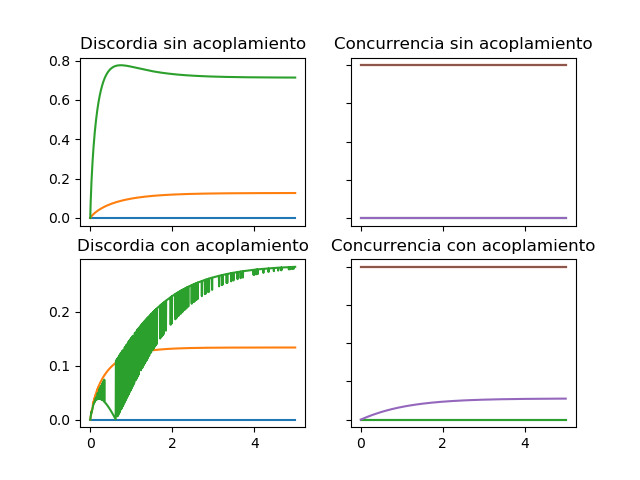
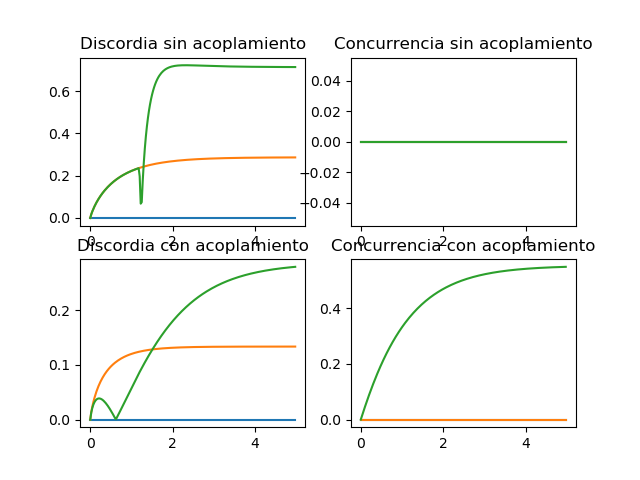
Cambio generado con script

diff --git a/master.py b/master.py
@@ -1,7 +1,7 @@
 from qutip import * #Liberia qutip
 from matplotlib.pyplot import * #Libreria matplotlib
 import numpy as np #Liberia numpy
-times = np.linspace(0,5,1000) #definir intervalo temporal 
+times = np.linspace(0,5, 200) #definir intervalo temporal 
 I1 =  (1/(np.sqrt(2)))*(tensor(basis(2,0),basis(2,0))+tensor(basis(2,1),basis(2,1)))#Definir estado inicial Bell 1
 I2 =  (1/(np.sqrt(2)))*(tensor(basis(2,0),basis(2,1))+tensor(basis(2,1),basis(2,0)))#Definir estado inicial Bell 3
 I3 =  tensor(basis(2,0),basis(2,1))#Definir estado inicial logico 01
@@ -28,44 +28,63 @@ def log_2(x):
 def entropy_cond(a,b,t1,t2):
     e = a*(-((1-t1)/2)*log_2((1-t1)/2)-((1+t1)/2)*log_2((1+t1)/2))+b*(-((1-t2)/2)*log_2((1-t2)/2)-((1+t2)/2)*log_2((1+t2)/2))
     return e
+
+#Definir función entropía binaria con logaritmo seguro
+def h_bin(x):
+    h=-x*log_2(x)-(1-x)*log_2(1-x)
+    return h
    
 #Definir funcion que calcula ecuaciones maestras y evaluar si funciona fuera
 def me3(IN,RES):
     sol=mesolve(tensor(identity(2),identity(2)), IN, times, RES)
-    out=[[0 for i in range(1000)],[0 for i in range(1000)]]
-    conc=[0 for i in range(1000)]
-    disc=[0 for i in range(1000)]    
+    out=[[0 for i in range(200)],[0 for i in range(200)],[0 for i in range(200)], [0 for i in range(200)]]
+    conc=[0 for i in range(200)]
+    disc=[0 for i in range(200)]
+    clas=[0 for i in range(200)]
+    entf=[0 for i in range(200)]    
     def entropy_opt(a):
         ent_comp=[0 for i in range(4)]
-        if a.matrix_element(tensor(basis(2,0)),tensor(basis(2,0)))+a.matrix_element(tensor(basis(2,1)),tensor(basis(2,1)))==0:
+        r00= a.matrix_element(tensor(basis(2,0),basis(2,0)).dag(),tensor(basis(2,0),basis(2,0)))
+        r11= a.matrix_element(tensor(basis(2,0),basis(2,1)).dag(),tensor(basis(2,0),basis(2,1)))
+        r22= a.matrix_element(tensor(basis(2,1),basis(2,0)).dag(),tensor(basis(2,1),basis(2,0)))
+        r33= a.matrix_element(tensor(basis(2,1),basis(2,1)).dag(),tensor(basis(2,1),basis(2,1)))
+        r03r= np.real(a.matrix_element(tensor(basis(2,0),basis(2,0)).dag(),tensor(basis(2,1),basis(2,1))))
+        r12r= np.real(a.matrix_element(tensor(basis(2,0),basis(2,1)).dag(),tensor(basis(2,1),basis(2,0))))
+        r03i= np.imag(a.matrix_element(tensor(basis(2,0),basis(2,0)).dag(),tensor(basis(2,1),basis(2,1))))
+        r12i= np.imag(a.matrix_element(tensor(basis(2,0),basis(2,1)).dag(),tensor(basis(2,1),basis(2,0))))
+        if r11+r33 ==0:
            ent_comp[0]=1
            ent_comp[1]=1
-        elif a.matrix_element(tensor(basis(2,0)),tensor(basis(2,1)))+a.matrix_element(tensor(basis(2,1)),tensor(basis(2,0)))==0:
+        elif r00+r22 ==0:
            ent_comp[0]=1
            ent_comp[1]=1
         else:
-           ent_comp[0]=entropy_cond(a.matrix_element(tensor(basis(2,0),basis(2,1)).dag(),tensor(basis(2,0),basis(2,1)))+a.matrix_element(tensor(basis(2,1),basis(2,1)).dag(),tensor(basis(2,1),basis(2,1))),a.matrix_element(tensor(basis(2,0),basis(2,0)).dag(),tensor(basis(2,0),basis(2,0)))+a.matrix_element(tensor(basis(2,1),basis(2,0)).dag(),tensor(basis(2,1),basis(2,0))),(a.matrix_element(tensor(basis(2,0),basis(2,1)).dag(),tensor(basis(2,0),basis(2,1)))-a.matrix_element(tensor(basis(2,1),basis(2,1)).dag(),tensor(basis(2,1),basis(2,1))))/(a.matrix_element(tensor(basis(2,0),basis(2,0)).dag(),tensor(basis(2,0),basis(2,0)))+a.matrix_element(tensor(basis(2,1),basis(2,0)).dag(),tensor(basis(2,1),basis(2,0)))),(a.matrix_element(tensor(basis(2,0),basis(2,0)).dag(),tensor(basis(2,0),basis(2,0)))-a.matrix_element(tensor(basis(2,1),basis(2,0)).dag(),tensor(basis(2,1),basis(2,0))))/(a.matrix_element(tensor(basis(2,0),basis(2,1)).dag(),tensor(basis(2,0),basis(2,1)))+a.matrix_element(tensor(basis(2,1),basis(2,1)).dag(),tensor(basis(2,1),basis(2,1)))))
-           ent_comp[1]=entropy_cond(a.matrix_element(tensor(basis(2,0),basis(2,0)).dag(),tensor(basis(2,0),basis(2,0)))+a.matrix_element(tensor(basis(2,1),basis(2,0)).dag(),tensor(basis(2,1),basis(2,0))),a.matrix_element(tensor(basis(2,0),basis(2,1)).dag(),tensor(basis(2,0),basis(2,1)))+a.matrix_element(tensor(basis(2,1),basis(2,1)).dag(),tensor(basis(2,1),basis(2,1))),(a.matrix_element(tensor(basis(2,0),basis(2,0)).dag(),tensor(basis(2,0),basis(2,0)))-a.matrix_element(tensor(basis(2,1),basis(2,0)).dag(),tensor(basis(2,1),basis(2,0))))/(a.matrix_element(tensor(basis(2,0),basis(2,1)).dag(),tensor(basis(2,0),basis(2,1)))+a.matrix_element(tensor(basis(2,1),basis(2,1)).dag(),tensor(basis(2,1),basis(2,1)))),(a.matrix_element(tensor(basis(2,0),basis(2,1)).dag(),tensor(basis(2,0),basis(2,1)))-a.matrix_element(tensor(basis(2,1),basis(2,1)).dag(),tensor(basis(2,1),basis(2,1))))/(a.matrix_element(tensor(basis(2,0),basis(2,0)).dag(),tensor(basis(2,0),basis(2,0)))+a.matrix_element(tensor(basis(2,1),basis(2,0)).dag(),tensor(basis(2,1),basis(2,0)))))
-        ent_comp[2]=entropy_cond(0.5,0.5,np.sqrt(((a.matrix_element(tensor(basis(2,0),basis(2,0)).dag(),tensor(basis(2,0),basis(2,0)))-a.matrix_element(tensor(basis(2,1),basis(2,0)).dag(),tensor(basis(2,1),basis(2,0))))+(a.matrix_element(tensor(basis(2,0),basis(2,1)).dag(),tensor(basis(2,0),basis(2,1)))-a.matrix_element(tensor(basis(2,1),basis(2,1)).dag(),tensor(basis(2,1),basis(2,1)))))**2+4*(a.matrix_element(tensor(basis(2,0),basis(2,0)).dag(),tensor(basis(2,1),basis(2,1)))+a.matrix_element(tensor(basis(2,0),basis(2,1)).dag(),tensor(basis(2,1),basis(2,0))))**2),np.sqrt(((a.matrix_element(tensor(basis(2,0),basis(2,0)).dag(),tensor(basis(2,0),basis(2,0)))-a.matrix_element(tensor(basis(2,1),basis(2,0)).dag(),tensor(basis(2,1),basis(2,0))))+(a.matrix_element(tensor(basis(2,0),basis(2,1)).dag(),tensor(basis(2,0),basis(2,1)))-a.matrix_element(tensor(basis(2,1),basis(2,1)).dag(),tensor(basis(2,1),basis(2,1)))))**2+4*(a.matrix_element(tensor(basis(2,0),basis(2,0)).dag(),tensor(basis(2,1),basis(2,1)))-a.matrix_element(tensor(basis(2,0),basis(2,1)).dag(),tensor(basis(2,1),basis(2,0))))**2))
-        ent_comp[3]=entropy_cond(0.5,0.5,np.sqrt(((a.matrix_element(tensor(basis(2,0),basis(2,0)).dag(),tensor(basis(2,0),basis(2,0)))-a.matrix_element(tensor(basis(2,1),basis(2,0)).dag(),tensor(basis(2,1),basis(2,0))))+(a.matrix_element(tensor(basis(2,0),basis(2,1)).dag(),tensor(basis(2,0),basis(2,1)))-a.matrix_element(tensor(basis(2,1),basis(2,1)).dag(),tensor(basis(2,1),basis(2,1)))))**2+4*(a.matrix_element(tensor(basis(2,0),basis(2,0)).dag(),tensor(basis(2,1),basis(2,1)))-a.matrix_element(tensor(basis(2,0),basis(2,1)).dag(),tensor(basis(2,1),basis(2,0))))**2),np.sqrt(((a.matrix_element(tensor(basis(2,0),basis(2,0)).dag(),tensor(basis(2,0),basis(2,0)))-a.matrix_element(tensor(basis(2,1),basis(2,0)).dag(),tensor(basis(2,1),basis(2,0))))+(a.matrix_element(tensor(basis(2,0),basis(2,1)).dag(),tensor(basis(2,0),basis(2,1)))-a.matrix_element(tensor(basis(2,1),basis(2,1)).dag(),tensor(basis(2,1),basis(2,1)))))**2+4*(a.matrix_element(tensor(basis(2,0),basis(2,0)).dag(),tensor(basis(2,1),basis(2,1)))-a.matrix_element(tensor(basis(2,0),basis(2,1)).dag(),tensor(basis(2,1),basis(2,0))))**2))              
+           ent_comp[0]=entropy_cond( r11+r33, r00+r22, (r11-r33)/(r00+r22) ,(r00-r22)/(r11+r33) )
+           ent_comp[1]=entropy_cond( r00+r22, r11+r33, (r00-r22)/(r11+r33) ,(r11-r33)/(r00+r22) )
+        ent_comp[2]=entropy_cond( 0.5, 0.5,  np.sqrt(((r00-r22)+(r11-r33))**2+4*(r03r+r12r)**2), np.sqrt(((r00-r22)+(r11-r33))**2+4*(r03r+r12r)**2))
+        ent_comp[3]=entropy_cond( 0.5, 0.5,  np.sqrt(((r00-r22)+(r11-r33))**2+4*(r03r+r12r)**2), np.sqrt(((r00-r22)+(r11-r33))**2+4*(r03r+r12r)**2))              
         if min(ent_comp)<=0:
            e=0
         else:
             e= min(ent_comp)
         return e
-    for i in range (0,1000):
+    for i in range (0,200):
         mat=Qobj(sol.states[i])
-        conc[i]=concurrence(mat),4
+        conc[i]=concurrence(mat)
         disc[i]=np.abs(-entropy_vn(mat)+entropy_vn(mat.ptrace(0))+entropy_opt(mat))
-    out=[conc,disc]
+        clas[i]=entropy_mutual(mat,0,1)-disc[i]
+        entf[i]=h_bin((1+np.sqrt(1-(concurrence(mat))**2))/2)
+    out=[conc,disc,clas,entf]
     return out
 
 def me2(IN,RES):
     sol=mesolve(tensor(identity(2),identity(2)), IN, times, RES)
-    out=[[0 for i in range(1000)],[0 for i in range(1000)]]
-    conc=[0 for i in range(1000)]
-    disc=[0 for i in range(1000)]
-    for i in range (0,1000):
+    out=[[0 for i in range(200)],[0 for i in range(200)],[0 for i in range(200)],[0 for i in range(200)]]
+    conc=[0 for i in range(200)]
+    disc=[0 for i in range(200)]
+    clas=[0 for i in range(200)]
+    entf=[0 for i in range(200)]
+    for i in range (0,200):
         mat=Qobj(sol.states[i])
         c1=mat.eigenenergies()[2]+mat.eigenenergies()[3]-mat.eigenenergies()[0]-mat.eigenenergies()[1]
         c2=mat.eigenenergies()[1]+mat.eigenenergies()[3]-mat.eigenenergies()[0]-mat.eigenenergies()[2]
@@ -76,55 +95,57 @@ def me2(IN,RES):
         disc[i]=-0.5*((1+c)*log_2(1+c)+(1-c)*log_2(1-c))
         for j in range (0,4):
             disc[i]=disc[i]+mat.eigenenergies()[j]*log_2(4*mat.eigenenergies()[j])
-    out=[conc,disc]
+        clas[i]=entropy_mutual(mat,0,1)-disc[i]
+        entf[i]=h_bin((1+np.sqrt(1-(concurrence(mat))**2))/2)
+    out=[conc,disc,clas,entf]
     return out    
 
-tiempo = [(1/200)*i for i in range(1000)]#Intervalo de tiempo para los gráficos
+tiempo = [(1/40)*i for i in range(200)]#Intervalo de tiempo para los gráficos
 
  
 #Graficar
-fig, axs = subplots(2,2)
-axs[0,0].plot(tiempo,me2(I1,S0S)[1])
-axs[0,0].plot(tiempo,me2(I1,S1S)[1])
-axs[0,0].plot(tiempo,me2(I1,S2S)[1])
-axs[0,0].set_title('Discordia sin acoplamiento')
-axs[0,1].plot(tiempo,me2(I1,S0S)[0])
-axs[0,1].plot(tiempo,me2(I1,S1S)[0])
-axs[0,1].plot(tiempo,me2(I1,S2S)[0])
-axs[0,1].set_title('Concurrencia sin acoplamiento')
-axs[1,0].plot(tiempo,me2(I1,S0C)[1])
-axs[1,0].plot(tiempo,me2(I1,S1C)[1])
-axs[1,0].plot(tiempo,me2(I1,S2C)[1])
-axs[1,0].set_title('Discordia con acoplamiento')
-axs[1,1].plot(tiempo,me2(I1,S0C)[0])
-axs[1,1].plot(tiempo,me2(I1,S1C)[0])
-axs[1,1].plot(tiempo,me2(I1,S2C)[0])
-axs[1,1].set_title('Concurrencia con acoplamiento')
-for ax in fig.get_axes():
-    ax.label_outer()
-savefig('bell1.png')
+#fig, axs = subplots(2,2)
+#axs[0,0].plot(tiempo,me2(I1,S0S)[1])
+#axs[0,0].plot(tiempo,me2(I1,S1S)[1])
+#axs[0,0].plot(tiempo,me2(I1,S2S)[1])
+#axs[0,0].set_title('Discordia sin acoplamiento')
+#axs[0,1].plot(tiempo,me2(I1,S0S)[0])
+#axs[0,1].plot(tiempo,me2(I1,S1S)[0])
+#axs[0,1].plot(tiempo,me2(I1,S2S)[0])
+#axs[0,1].set_title('Concurrencia sin acoplamiento')
+#axs[1,0].plot(tiempo,me2(I1,S0C)[1])
+#axs[1,0].plot(tiempo,me2(I1,S1C)[1])
+#axs[1,0].plot(tiempo,me2(I1,S2C)[1])
+#axs[1,0].set_title('Discordia con acoplamiento')
+#axs[1,1].plot(tiempo,me2(I1,S0C)[0])
+#axs[1,1].plot(tiempo,me2(I1,S1C)[0])
+#axs[1,1].plot(tiempo,me2(I1,S2C)[0])
+#axs[1,1].set_title('Concurrencia con acoplamiento')
+#for ax in fig.get_axes():
+#    ax.label_outer()
+#savefig('bell1.png')
 
 #Graficar
-fig, axs = subplots(2,2)
-axs[0,0].plot(tiempo,me2(I2,S0S)[1])
-axs[0,0].plot(tiempo,me2(I2,S1S)[1])
-axs[0,0].plot(tiempo,me2(I2,S2S)[1])
-axs[0,0].set_title('Discordia sin acoplamiento')
-axs[0,1].plot(tiempo,me2(I2,S0S)[0])
-axs[0,1].plot(tiempo,me2(I2,S1S)[0])
-axs[0,1].plot(tiempo,me2(I2,S2S)[0])
-axs[0,1].set_title('Concurrencia sin acoplamiento')
-axs[1,0].plot(tiempo,me2(I2,S0C)[1])
-axs[1,0].plot(tiempo,me2(I2,S1C)[1])
-axs[1,0].plot(tiempo,me2(I2,S2C)[1])
-axs[1,0].set_title('Discordia con acoplamiento')
-axs[1,1].plot(tiempo,me2(I2,S0C)[0])
-axs[1,1].plot(tiempo,me2(I2,S1C)[0])
-axs[1,1].plot(tiempo,me2(I2,S2C)[0])
-axs[1,1].set_title('Concurrencia con acoplamiento')
-for ax in fig.get_axes():
-    ax.label_outer()
-savefig('bell3.png')
+#fig, axs = subplots(2,2)
+#axs[0,0].plot(tiempo,me2(I2,S0S)[1])
+#axs[0,0].plot(tiempo,me2(I2,S1S)[1])
+#axs[0,0].plot(tiempo,me2(I2,S2S)[1])
+#axs[0,0].set_title('Discordia sin acoplamiento')
+#axs[0,1].plot(tiempo,me2(I2,S0S)[0])
+#axs[0,1].plot(tiempo,me2(I2,S1S)[0])
+#axs[0,1].plot(tiempo,me2(I2,S2S)[0])
+#axs[0,1].set_title('Concurrencia sin acoplamiento')
+#axs[1,0].plot(tiempo,me2(I2,S0C)[1])
+#axs[1,0].plot(tiempo,me2(I2,S1C)[1])
+#axs[1,0].plot(tiempo,me2(I2,S2C)[1])
+#axs[1,0].set_title('Discordia con acoplamiento')
+#axs[1,1].plot(tiempo,me2(I2,S0C)[0])
+#axs[1,1].plot(tiempo,me2(I2,S1C)[0])
+#axs[1,1].plot(tiempo,me2(I2,S2C)[0])
+#axs[1,1].set_title('Concurrencia con acoplamiento')
+#for ax in fig.get_axes():
+#    ax.label_outer()
+#savefig('bell3.png')
 
 
 #Graficar
@@ -145,8 +166,6 @@ axs[1,1].plot(tiempo,me3(I3,S0C)[0])
 axs[1,1].plot(tiempo,me3(I3,S1C)[0])
 axs[1,1].plot(tiempo,me3(I3,S2C)[0])
 axs[1,1].set_title('Concurrencia con acoplamiento')
-for ax in fig.get_axes():
-    ax.label_outer()
 savefig('logi01.png')
 
 
@@ -168,8 +187,6 @@ axs[1,1].plot(tiempo,me3(I4,S0C)[0])
 axs[1,1].plot(tiempo,me3(I4,S1C)[0])
 axs[1,1].plot(tiempo,me3(I4,S2C)[0])
 axs[1,1].set_title('Concurrencia con acoplamiento')
-for ax in fig.get_axes():
-    ax.label_outer()
 savefig('logi11.png')
 
 
@@ -191,12 +208,80 @@ axs[1,1].plot(tiempo,me3(I5,S0C)[0])
 axs[1,1].plot(tiempo,me3(I5,S1C)[0])
 axs[1,1].plot(tiempo,me3(I5,S2C)[0])
 axs[1,1].set_title('Concurrencia con acoplamiento')
-for ax in fig.get_axes():
-    ax.label_outer()
 savefig('logi00.png')
 
+#Graficar
+#fig, axs = subplots(3,1)
+#axs[0,0].plot(tiempo,me3(I4,S1C)[1])
+#axs[0,0].plot(tiempo,me3(I4,S1C)[2])
+#axs[0,0].plot(tiempo,me3(I4,S1C)[3])
+#axs[0,0].set_title('Estado lógico 11')
+#axs[0,1].plot(tiempo,me3(I5,S1C)[1])
+#axs[0,1].plot(tiempo,me3(I5,S1C)[2])
+#axs[0,1].plot(tiempo,me3(I5,S1C)[3])
+#axs[0,1].set_title('Estado lógico 00')
+#axs[1,0].plot(tiempo,me3(I3,S1C)[1])
+#axs[1,0].plot(tiempo,me3(I3,S1C)[2])
+#axs[1,0].plot(tiempo,me3(I3,S1C)[3])
+#axs[1,0].set_title('Estado lógico 01')
+#for ax in fig.get_axes():
+#    ax.label_outer()
+#savefig('termal.png')
+
+#Graficar
+#fig, axs = subplots(3,1)
+#axs[0,0].plot(tiempo,me3(I4,S2C)[1])
+#axs[0,0].plot(tiempo,me3(I4,S2C)[2])
+#axs[0,0].plot(tiempo,me3(I4,S2C)[3])
+#axs[0,0].set_title('Estado Lógico 11')
+#axs[0,1].plot(tiempo,me3(I5,S2C)[1])
+#axs[0,1].plot(tiempo,me3(I5,S2C)[2])
+#axs[0,1].plot(tiempo,me3(I5,S2C)[3])
+#axs[0,1].set_title('Estado lógico 00')
+#axs[1,0].plot(tiempo,me3(I3,S2C)[1])
+#axs[1,0].plot(tiempo,me3(I3,S2C)[2])
+#axs[1,0].plot(tiempo,me3(I3,S2C)[3])
+#axs[1,0].set_title('Estado lógico 01')
+#for ax in fig.get_axes():
+#    ax.label_outer()
+#savefig('compri.png')
+
+#Graficar
+#fig, axs = subplots(2,2)
+#axs[0,0].plot(tiempo,me2(I1,S1S)[3])
+#axs[0,0].plot(tiempo,me2(I2,S1S)[3])
+#axs[0,0].set_title('Entrelazamiento sin acoplamiento')
+#axs[0,1].plot(tiempo,me2(I1,S1S)[1])
+#axs[0,1].plot(tiempo,me2(I2,S1S)[1])
+#axs[0,1].set_title('Discordia sin acoplamiento')
+#axs[1,0].plot(tiempo,me2(I1,S1C)[3])
+#axs[1,0].plot(tiempo,me2(I2,S1C)[3])
+#axs[1,0].set_title('Entrelazamiento con acoplamiento')
+#axs[1,1].plot(tiempo,me2(I1,S1C)[1])
+#axs[1,1].plot(tiempo,me2(I2,S1C)[1])
+#axs[1,1].set_title('Discordia con acoplamiento')
+#for ax in fig.get_axes():
+#    ax.label_outer()
+#savefig('belltermal.png')
 
 
+#Graficar
+#fig, axs = subplots(2,2)
+#axs[0,0].plot(tiempo,me2(I1,S2S)[3])
+#axs[0,0].plot(tiempo,me2(I2,S2S)[3])
+#axs[0,0].set_title('Entrelazamiento sin acoplamiento')
+#axs[0,1].plot(tiempo,me2(I1,S2S)[1])
+#axs[0,1].plot(tiempo,me2(I2,S2S)[1])
+#axs[0,1].set_title('Discordia sin acoplamiento')
+#axs[1,0].plot(tiempo,me2(I1,S2C)[3])
+#axs[1,0].plot(tiempo,me2(I2,S2C)[3])
+#axs[1,0].set_title('Entrelazamiento con acoplamiento')
+#axs[1,1].plot(tiempo,me2(I1,S2C)[1])
+#axs[1,1].plot(tiempo,me2(I2,S2C)[1])
+#axs[1,1].set_title('Discordia con acoplamiento')
+#for ax in fig.get_axes():
+#    ax.label_outer()
+#savefig('bellcomprim.png')
 
 
 
